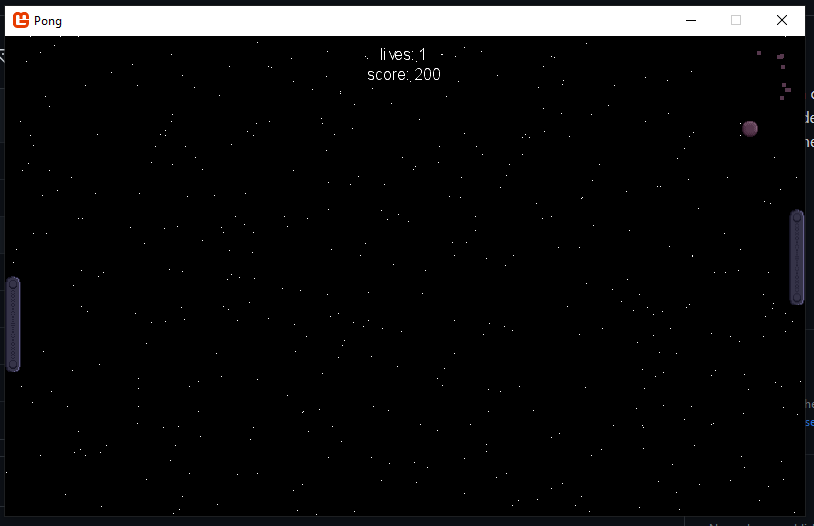
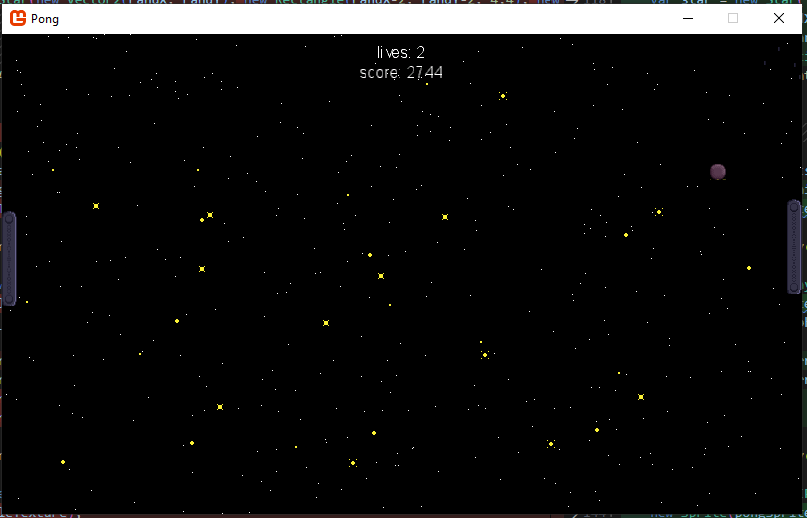
use spritesheet for textures and fix collision to use boundingbox dimensions

diff --git a/Pong/Game1.cs b/Pong/Game1.cs
@@ -87,8 +87,8 @@ namespace Pong
             _textDrawer = new TextDrawer(_spriteBatch, font, defaultTextColor);
 
             // load textures
-            var ballTexture = Content.Load<Texture2D>("Sprites/ball");
-            var paddleTexture = Content.Load<Texture2D>("Sprites/paddle");
+            //var ballTexture = Content.Load<Texture2D>("Sprites/ball");
+            //var paddleTexture = Content.Load<Texture2D>("Sprites/paddle");
             pongSpritesheet = Content.Load<Texture2D>("Sprites/pong_spritesheet");
 
             // generated textures
@@ -100,49 +100,54 @@ namespace Pong
             // set colors
             debugColor = new Color(1f, 0f, 0f, 0.3f);
 
+            // assign entities
             var starAmount = 100;
+            var edgePadding = 20;
             for (int i = 0; i < starAmount; i++)
             {
                 var rnd = new Random();
-                var randX = rnd.Next(100, _graphics.PreferredBackBufferWidth - 100);
-                var randY = rnd.Next(100, _graphics.PreferredBackBufferHeight - 100);
+                var randX = rnd.Next(edgePadding, _graphics.PreferredBackBufferWidth - edgePadding);
+                var randY = rnd.Next(edgePadding, _graphics.PreferredBackBufferHeight - edgePadding);
+                var randFrame = rnd.Next(0, 4);
                 var starAnimationRects = new Rectangle[4];
                 starAnimationRects[0] = new Rectangle(16, 16, 2, 2);
                 starAnimationRects[1] = new Rectangle(26, 18, 4, 4);
                 starAnimationRects[2] = new Rectangle(18, 16, 6, 6);
                 starAnimationRects[3] = new Rectangle(24, 16, 8, 8);
 
-                var star = new Star(new Vector2(randX, randY), new Rectangle(randX-2, randY-2, 4,4), new SpriteAnimation(pongSpritesheet, 0, 16, true, starAnimationRects));
+                var star = new Star(
+                    new Vector2(randX, randY), 
+                    new Rectangle(randX-2, randY-2, 4,4), 
+                    new SpriteAnimation(pongSpritesheet, randFrame, 16, true, starAnimationRects));
                 _entityManager.AddEntity(star);
             }
 
-            // assign entities
             var ball = new Ball(
                 new Vector2(_graphics.PreferredBackBufferWidth / 2, _graphics.PreferredBackBufferHeight / 2),
-                new Rectangle(_graphics.PreferredBackBufferWidth / 2, _graphics.PreferredBackBufferHeight / 2, ballTexture.Width, ballTexture.Height),
-                new Sprite(ballTexture)
+                new Rectangle(_graphics.PreferredBackBufferWidth / 2, _graphics.PreferredBackBufferHeight / 2, 16, 16),
+                new Sprite(pongSpritesheet, new Rectangle(16,0, 16,16))
             );
             _entityManager.AddEntity(ball);
 
             var leftPaddle = new PlayerPaddle(
-                new Sprite(paddleTexture),
+                new Sprite(pongSpritesheet, new Rectangle(0,0, 15, 95)),
                 new Vector2(0, _graphics.PreferredBackBufferHeight / 2),
                 new Rectangle(
-                    _graphics.PreferredBackBufferWidth - paddleTexture.Width,
+                    _graphics.PreferredBackBufferWidth - 15 / 2,
                     _graphics.PreferredBackBufferHeight / 2,
-                    paddleTexture.Width,
-                    paddleTexture.Height)
+                    15,
+                    95)
             );
             _entityManager.AddEntity(leftPaddle);
 
             var rightPaddle = new AIPaddle(
-                new Sprite(paddleTexture),
-                new Vector2(_graphics.PreferredBackBufferWidth - paddleTexture.Width, _graphics.PreferredBackBufferHeight / 2),
+                new Sprite(pongSpritesheet, new Rectangle(0, 0, 15, 95)),
+                new Vector2(_graphics.PreferredBackBufferWidth - 15, _graphics.PreferredBackBufferHeight / 2),
                 new Rectangle(
-                    _graphics.PreferredBackBufferWidth - paddleTexture.Width,
+                    _graphics.PreferredBackBufferWidth - 15 / 2,
                     _graphics.PreferredBackBufferHeight / 2,
-                    paddleTexture.Width, 
-                    paddleTexture.Height)
+                    15,
+                    95)
             );
             _entityManager.AddEntity(rightPaddle);
 
@@ -183,7 +188,16 @@ namespace Pong
                 Exit();
             }
 
-            // ctrl + shift + D
+            // Toggle Pause state: ctrl + shift + D
+            if (keyboardState.IsKeyDown(Keys.P) 
+                && !lastKeyboardState.IsKeyDown(Keys.P) 
+                && (_currentGameState == PongGameState.GameLoop || _currentGameState == PongGameState.GamePaused))
+            {
+                var newState = _currentGameState == PongGameState.GamePaused ? PongGameState.GameLoop : PongGameState.GamePaused;
+                PongEventSystem.GameStateChanged(newState);
+            }
+
+            // Toggle Debug mode: ctrl + shift + D
             if (keyboardState.IsKeyDown(Keys.D) 
                 && (keyboardState.IsKeyDown(Keys.LeftShift) || keyboardState.IsKeyDown(Keys.RightShift))
                 && (keyboardState.IsKeyDown(Keys.LeftControl) || keyboardState.IsKeyDown(Keys.RightControl))
@@ -195,6 +209,14 @@ namespace Pong
                 )
             {
                 ToggleDebugMode();
+            }
+
+            // Pause mode on: no updates to be done!
+            if (_currentGameState == PongGameState.GamePaused)
+            {
+                lastKeyboardState = keyboardState;
+                base.Update(gameTime);
+                return;
             }
 
             starBackground.Update(gameTime, _graphics);
@@ -248,7 +270,7 @@ namespace Pong
 
             starBackground.Render(_spriteBatch);
 
-            if (_currentGameState == PongGameState.GameLoop)
+            if (_currentGameState == PongGameState.GameLoop || _currentGameState == PongGameState.GamePaused)
             {
                 _entityManager.RenderEntities();
                 ParticleSystem.Instance.Draw();
@@ -276,6 +298,12 @@ namespace Pong
                 _textDrawer.Draw(help1, new Vector2(_graphics.PreferredBackBufferWidth / 2, 60), Alignment.Center);
                 _textDrawer.Draw(help2, new Vector2(_graphics.PreferredBackBufferWidth / 2, 80), Alignment.Center);
                 _textDrawer.Draw(help3, new Vector2(_graphics.PreferredBackBufferWidth / 2, 100), Alignment.Center);
+            }
+
+            if (_currentGameState == PongGameState.GamePaused)
+            {
+                string paused = $"Game paused";
+                _textDrawer.Draw(paused, new Vector2(_graphics.PreferredBackBufferWidth / 2, _graphics.PreferredBackBufferHeight / 2), Alignment.Center);
             }
 
             _spriteBatch.End();

diff --git a/Pong/GameObjects/Ball.cs b/Pong/GameObjects/Ball.cs
@@ -39,46 +39,46 @@ namespace Pong
 
         public override void Update(GameTime gameTime, KeyboardState keyboardState, GraphicsDeviceManager graphics, EntityManager entityManager)
         {
-            if (Position.Y - Sprite.Texture.Height/2 < 0)
+            if (Position.Y - BoundingBox.Height/2 < 0)
             {
                 // ball hit top wall
                 Velocity.Y = -Velocity.Y;
-                var hitPosition = new Vector2(Position.X + Sprite.Texture.Width / 2, Position.Y);
+                var hitPosition = new Vector2(Position.X + BoundingBox.Width / 2, Position.Y);
                 SpawnParticlesAtPosition(hitPosition, 5);
                 AudioManager.Instance.PlaySound((int)PongSoundEffects.BallHit);
             }
 
-            if (Position.Y + Sprite.Texture.Height / 2 > graphics.PreferredBackBufferHeight)
+            if (Position.Y + BoundingBox.Height / 2 > graphics.PreferredBackBufferHeight)
             {
                 // ball hit bottom wall
                 Velocity.Y = -Velocity.Y;
-                var hitPosition = new Vector2(Position.X + Sprite.Texture.Width / 2, graphics.PreferredBackBufferHeight);
+                var hitPosition = new Vector2(Position.X + BoundingBox.Width / 2, graphics.PreferredBackBufferHeight);
                 SpawnParticlesAtPosition(hitPosition, 5);
                 AudioManager.Instance.PlaySound((int)PongSoundEffects.BallHit);
             }
 
-            if (Position.X - Sprite.Texture.Width / 2 < 0)
+            if (Position.X - BoundingBox.Width / 2 < 0)
             {
                 // ball hit left wall
                 if (Velocity.X < 0)
                 {
                     Velocity.X = -Velocity.X;
                     GameStats.Instance.PlayerLives -= 1;
-                    var hitPosition = new Vector2(0, Position.Y + Sprite.Texture.Height / 2);
+                    var hitPosition = new Vector2(0, Position.Y + BoundingBox.Height / 2);
                     SpawnParticlesAtPosition(hitPosition, 5);
                     AudioManager.Instance.PlaySound((int)PongSoundEffects.LiveLost);
                     AudioManager.Instance.PlaySound((int)PongSoundEffects.BallHit);
                 }
             }
 
-            if (Position.X +  Sprite.Texture.Width /2 > graphics.PreferredBackBufferWidth)
+            if (Position.X + BoundingBox.Width /2 > graphics.PreferredBackBufferWidth)
             {
                 // ball hit right wall
                 if (Velocity.X > 0)
                 {
                     Velocity.X = -Velocity.X;
                     GameStats.Instance.PlayerScore += SCORE_ON_WALL_HIT;
-                    var hitPosition = new Vector2(graphics.PreferredBackBufferWidth, Position.Y + Sprite.Texture.Height / 2);
+                    var hitPosition = new Vector2(graphics.PreferredBackBufferWidth, Position.Y + BoundingBox.Height / 2);
                     SpawnParticlesAtPosition(hitPosition, 5);
                     AudioManager.Instance.PlaySound((int)PongSoundEffects.Scored);
                     AudioManager.Instance.PlaySound((int)PongSoundEffects.BallHit);
@@ -92,7 +92,7 @@ namespace Pong
                     Velocity.X = -Velocity.X * 1.1f;
                     Velocity.Y *= 1.1f;
                     GameStats.Instance.PlayerScore += SCORE_ON_PADDLE_HIT;
-                    var hitPosition = new Vector2(Position.X, Position.Y + Sprite.Texture.Height / 2);
+                    var hitPosition = new Vector2(Position.X, Position.Y + BoundingBox.Height / 2);
                     SpawnParticlesAtPosition(hitPosition, 15);
                     AudioManager.Instance.PlaySound((int)PongSoundEffects.PaddleHit);
                 }
@@ -104,7 +104,7 @@ namespace Pong
                 {
                     Velocity.X = -Velocity.X * 1.1f;
                     Velocity.Y *= 1.1f;
-                    var hitPosition = new Vector2(Position.X + BoundingBox.Width, Position.Y + Sprite.Texture.Height / 2);
+                    var hitPosition = new Vector2(Position.X + BoundingBox.Width, Position.Y + BoundingBox.Height / 2);
                     SpawnParticlesAtPosition(hitPosition, 15);
                     AudioManager.Instance.PlaySound((int)PongSoundEffects.PaddleHit);
                 }

diff --git a/GameEngine.Core/GameEngine/Sprites/Sprite.cs b/GameEngine.Core/GameEngine/Sprites/Sprite.cs
@@ -22,17 +22,33 @@ namespace GameEngine.Core.SpriteManagement
         public void Render(SpriteBatch spriteBatch, Vector2 entityPosition, float depthLayer, bool horizontalFlipped)
         {
             // use whole texture
-            spriteBatch.Draw(
-                Texture,
-                entityPosition,
-                SourceRectangle,
-                Color.White,
-                0f, // rotation
-                new Vector2(Texture.Width / 2, Texture.Height / 2), // origin
-                Vector2.One, // scale
-                horizontalFlipped ? SpriteEffects.None : SpriteEffects.FlipHorizontally,
-                depthLayer
-            );
+            if (SourceRectangle == null)
+            {
+                spriteBatch.Draw(
+                    Texture,
+                    entityPosition,
+                    null,
+                    Color.White,
+                    0f, // rotation
+                    new Vector2(Texture.Width / 2, Texture.Height / 2), // origin
+                    Vector2.One, // scale
+                    horizontalFlipped ? SpriteEffects.None : SpriteEffects.FlipHorizontally,
+                    depthLayer
+                );
+            } else
+            {
+                spriteBatch.Draw(
+                    Texture,
+                    entityPosition,
+                    SourceRectangle,
+                    Color.White,
+                    0f, // rotation
+                    new Vector2(SourceRectangle.Value.Width / 2, SourceRectangle.Value.Height / 2), // origin
+                    Vector2.One, // scale
+                    horizontalFlipped ? SpriteEffects.None : SpriteEffects.FlipHorizontally,
+                    depthLayer
+                );
+            }
         }
     }
 }

diff --git a/Pong/PongGameState.cs b/Pong/PongGameState.cs
@@ -10,6 +10,7 @@ namespace Pong
     {
         Scoreboard,
         GameLoop,
+        GamePaused,
         AddNewHighScore
     }
 }

diff --git a/todo.md b/todo.md
@@ -2,7 +2,6 @@
 
 - pong game:
     - fullscreen, windowed mode, scaling
-    - use spritesheet for textures
     - powerups:
       - requires Timer-class to handle boost-lifespan? store effects globally or by per paddle/ball?
       - speedboost to paddle
@@ -11,6 +10,8 @@
       - speedball that vanishes after hitting either side of wall.
     - make ball go in the direction the paddle hit it, as in changing it's direction slightly.
 - gamepad input / controller support. https://docs.monogame.net/api/Microsoft.Xna.Framework.Input.html
+- text input it bit slow, can't press next key before letting go of last to register next one.
+- ball is not going all the way down and all the way up on screen before it turns
 
 - UI elements
     - menu buttons
